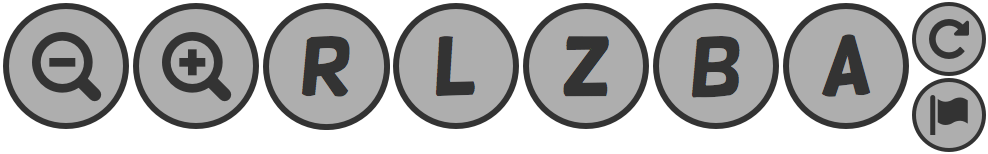
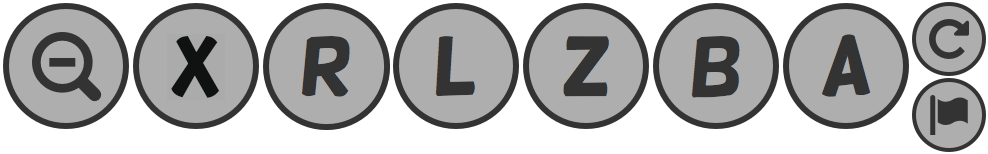
add x button for mobile, fix UI

Changed region(s): [[0.1518, 0.2078, 0.2429, 0.6494]]

diff --git a/app.css b/app.css
@@ -1723,6 +1723,13 @@ html.fullscreen #main_page {
     }
 }
 
+@media screen and (max-width: 720px) {
+    .topMenu-button_help,
+    .topMenu-button_controls {
+        display: none
+    }
+}
+
 .horizontal-slider-container {
     display: inline-block;
     float: left
@@ -2013,39 +2020,6 @@ html.fullscreen #main_page {
     border-right: 0
 }
 
-@media (max-height: 720px) {
-    .leftMenu,
-    .rightMenu {
-        transform: scale(0.8);
-    }
-
-    .leftMenu {
-        left: -5px;
-    }
-
-    .rightMenu {
-        right: -5px;
-    }
-
-    .topMenu {
-        top: -5px;
-        width: 125%;
-        transform: scale(0.8);
-        transform-origin: left;
-    }
-
-    .bottomMenu {
-        bottom: -5px;
-        width: 125%;
-        transform: scale(0.8);
-        transform-origin: left;
-    }
-
-    .editorGui {
-        height: 35px;
-    }
-}
-
 /*
 @media (max-height: 480px) {
     .leftMenu,
@@ -2179,7 +2153,8 @@ html.fullscreen #main_page {
     right: 18px;
     padding: 6px;
     width: 30%;
-    height: 180px;
+    min-width: 168px;
+    height: 42%;
     overflow-y: scroll;
     border: 1px solid #CCC;
     border-radius: 6px;
@@ -2192,9 +2167,10 @@ html.fullscreen #main_page {
 
 .importDialog-preview {
     position: absolute;
-    top: 251px;
+    bottom: 84px;
     right: 18px;
     width: 30%;
+    min-width: 168px;
     height: auto;
     max-width: 100%;
     aspect-ratio: 5 / 3;
@@ -2221,7 +2197,7 @@ html.fullscreen #main_page {
 }
 
 .importDialog-code{
-    width: 65%;
+    width: 66%;
 }
 
 .exportDialog-code{
@@ -2252,7 +2228,7 @@ html.fullscreen #main_page {
     font-size: 14px;
     padding: 15px;
     position: absolute;
-    width: 330px
+    width: 60%;
 }
 
 .exportDialog-saveAsFile,
@@ -3066,4 +3042,75 @@ only screen and (min-device-pixel-ratio:3) {
     display: block;
     height: auto;
     border: 1px solid transparent
+}
+
+@media (max-height: 720px) {
+    .leftMenu,
+    .rightMenu {
+        transform: scale(0.8);
+    }
+
+    .leftMenu {
+        left: -5px;
+    }
+
+    .rightMenu {
+        right: -5px;
+    }
+
+    .topMenu {
+        top: -5px;
+        width: 125%;
+        transform: scale(0.8);
+        transform-origin: left;
+    }
+
+    .bottomMenu {
+        bottom: -5px;
+        width: 125%;
+        transform: scale(0.8);
+        transform-origin: left;
+    }
+
+    .editorGui {
+        height: 35px;
+    }
+}
+
+@media (max-width: 720px) or (max-height: 600px) {
+    .editorDialog-content {
+        width: 360px;
+    }
+
+    .importDialog-placeholder {
+        width: 40%;
+    }
+
+    .importDialog-code {
+        width: 45%;
+        height: 250px;
+    }
+
+    .importDialog-tracklist {
+        height: 36%;
+    }
+
+    .editorDialog-content {
+        transform: scale(0.8);
+    }
+
+    .editorDialog-content_exportDialog {
+        min-width: 400px;
+        transform: scale(0.6);
+    }
+}
+
+@media screen and (max-width: 720px) {
+    .bottomToolOptions-toolTitle,
+    .bottomMenu-button_object,
+    .bottomMenu-button_snap,
+    .bottomMenu-button_grid,
+    .bottomMenu-button_cameralock {
+        display: none
+    }
 }

diff --git a/scripts/offlineeditor.js b/scripts/offlineeditor.js
@@ -364,6 +364,7 @@
             render: function () {
               var e = this.props.data.tool,
                 t = this.props.data.toolOptions,
+                mobile = GameManager.game && GameManager.game.currentScene.mod.getVar("mobile"),
                 f = "";
               switch (e) {
                 case "straightline":
@@ -403,12 +404,12 @@
                     "div",
                     { className: "clearfix" },
                     f,
-                    n.createElement(i, {active: this.props.data.cameraLocked }),
-                    n.createElement(o, { active: this.props.data.grid }),
-                    n.createElement(xxx, { active: this.props.data.snap }),
+                    !mobile ? n.createElement(i, {active: this.props.data.cameraLocked }) : null,
+                    !mobile ? n.createElement(o, { active: this.props.data.grid }) : null,
+                    !mobile ? n.createElement(xxx, { active: this.props.data.snap }) : null,
                     //e !== "select" && n.createElement(vv),
                     n.createElement(r, { vehicle: this.props.data.vehicle }),
-                    n.createElement(xxxx, { active: this.props.data.object }),
+                    !mobile ? n.createElement(xxxx, { active: this.props.data.object }) : null,
                     //e === "select" && n.createElement(vvv),
                     //n.createElement(v),
                     n.createElement("span", { className: "divider" })
@@ -1628,6 +1629,10 @@
               return { open: false };
             },
             openOptions: function (e) {
+              if (GameManager.game.currentScene.mod.getVar("mobile"))
+              { this.toggleVehicle();
+                return;
+              }
               this.setState({ open: !this.state.open });
             },
             moveVehicle: function () {

diff --git a/scripts/game.js b/scripts/game.js
@@ -9384,7 +9384,7 @@
               for (let t = 0; t < e.keys.length; t++)
                 s.setButtonDown(e.keys[t]);
             e.downCallback && e.downCallback(t),
-              this.settings.mobile && (this.mouse.enabled = !1),
+            this.scene.game.mod.getVar("mobile") && (this.mouse.enabled = !1),
               (t.target.alpha = 1);
           }
           controlUp(t) {
@@ -9393,7 +9393,7 @@
             if ((e.key && s.setButtonUp(e.key), e.keys))
               for (let t = 0; t < e.keys.length; t++) s.setButtonUp(e.keys[t]);
             e.upCallback && e.upCallback(t),
-              this.settings.mobile
+            this.scene.game.mod.getVar("mobile")
                 ? ((this.mouse.enabled = !0), (t.target.alpha = 0.5))
                 : (t.target.alpha = 0.8);
           }
@@ -9460,7 +9460,7 @@
               left: [4],
               replay: [5],
               right: [6],
-              zoom_in: [7],
+              special: [7],
               zoom_out: [8],
             },
           }),
@@ -9470,6 +9470,12 @@
               bottom: 100,
               left: 100,
               hitArea: { width: 250, height: 200, x: -30, y: -15 },
+            },
+            special: {
+              key: "x",
+              bottom: 100,
+              left: 250,
+              hitArea: { width: 230, height: 230, x: 0, y: -15 },
             },
             direction: {
               key: "z",
@@ -9511,6 +9517,7 @@
               n.addChild(this.createControl("forward")),
               n.addChild(this.createControl("brake")),
               n.addChild(this.createControl("direction")),
+              n.addChild(this.createControl("special")),
               n.addChild(t),
               n.addChild(e),
               n.addChild(s),
